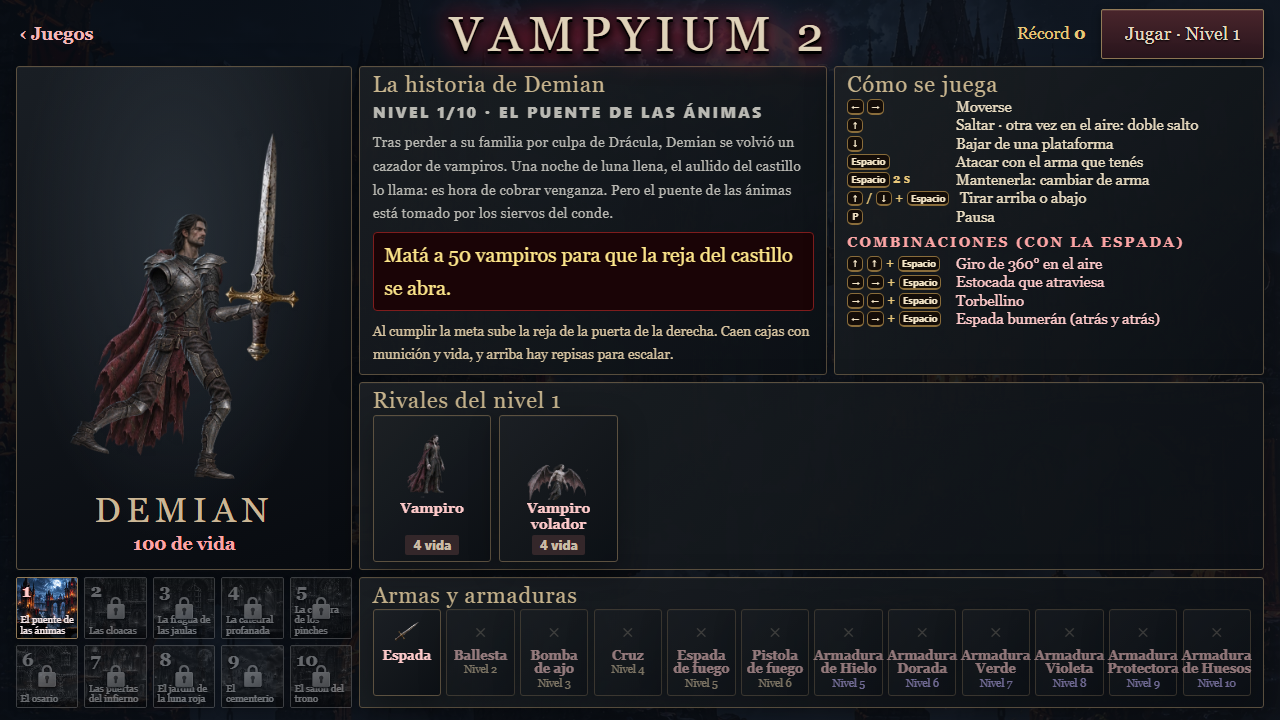
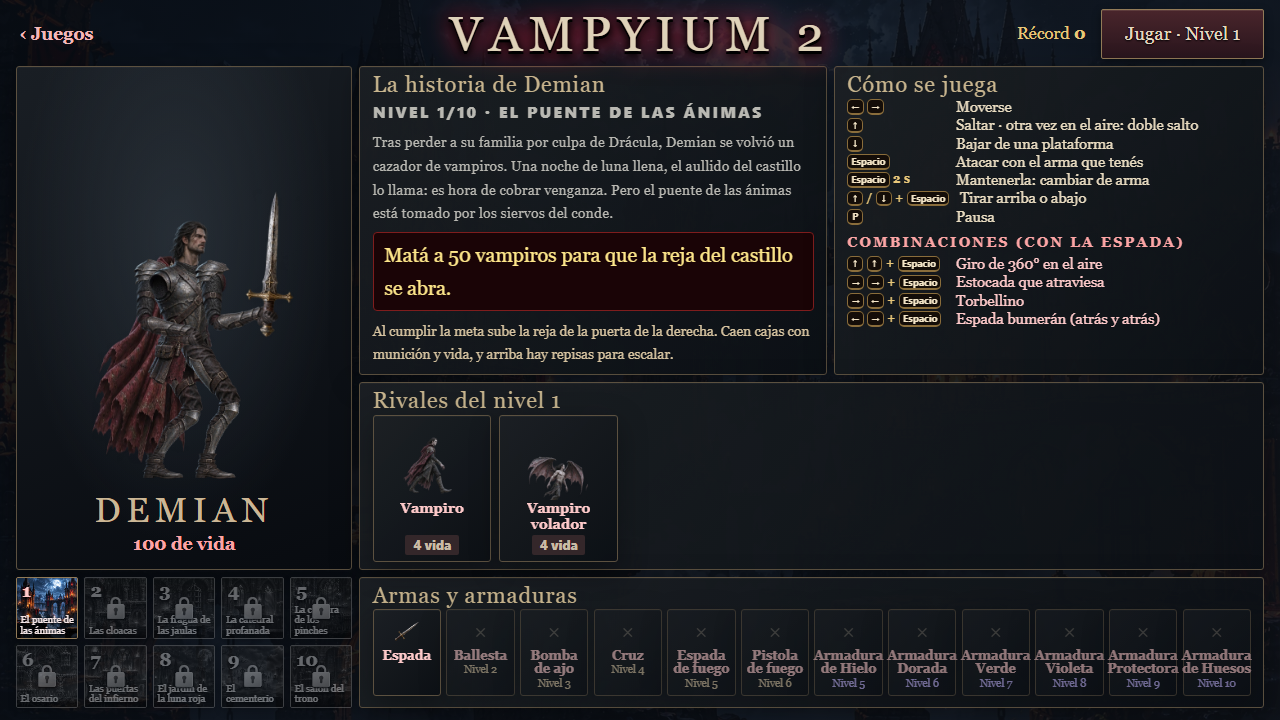
Agrandar personajes y corregir brazos y agarre de espada

Changed region(s): [[0.0625, 0.1833, 0.25, 0.6722], [0.4062, 0.6417, 0.4688, 0.7028], [0.3125, 0.6111, 0.3438, 0.7028]]

diff --git a/src/features/games/vampyium2Art.ts b/src/features/games/vampyium2Art.ts
@@ -70,7 +70,7 @@ function pelvis(ctx: CanvasRenderingContext2D) { blob(ctx, '#f1ead8', 2.2, () =>
 function spine(ctx: CanvasRenderingContext2D) { for (let i = 0; i < 5; i++) blob(ctx, '#f1ead8', 1.6, () => ctx.roundRect(-3.5, -12 + i * 5, 7, 4, 1.5)); }
 function jaw(ctx: CanvasRenderingContext2D) { blob(ctx, '#ece3cf', 2, () => { ctx.moveTo(-9, -2); ctx.lineTo(9, -2); ctx.lineTo(6, 5); ctx.lineTo(-6, 5); ctx.closePath(); }); ctx.fillStyle = '#fff'; for (let i = -2; i <= 2; i++) ctx.fillRect(i * 3 - 1, -4, 2, 2.5); }
 export function drawBone(ctx: CanvasRenderingContext2D, b: Bone, v: View) {
-  const k = PLAYER_H * 1.3 * v.s / 100 * (b.s ?? 1), fade = Math.min(1, (3.4 - b.t) / 0.6);
+  const k = PLAYER_H * 1.3 * v.s * CHARACTER_SCALE / 100 * (b.s ?? 1), fade = Math.min(1, (3.4 - b.t) / 0.6);
   ctx.save(); ctx.globalAlpha = Math.max(0, fade); ctx.translate(X(v, b.x), Y(v, b.y)); ctx.scale(k, k); ctx.rotate(b.a);
   if (b.kind === 'skull') skull(ctx, b.t < 1.2 ? '#ff3a2a' : '#2a1e1a');
   else if (b.kind === 'jaw') jaw(ctx);
@@ -83,7 +83,8 @@ export function drawBone(ctx: CanvasRenderingContext2D, b: Bone, v: View) {
 }
 // El vampiro se vuelve esqueleto: la carne se desvanece, el esqueleto brilla y arde entero como una antorcha
 // (como la gente que se prende fuego en "El piso es de lava"), grita y al segundo revienta.
-export const CHAR_K = 0.88; // metros del personaje → unidades del mundo
+export const CHARACTER_SCALE = 3;
+export const CHAR_K = 0.88 * CHARACTER_SCALE; // escala visual de los personajes durante la partida
 export function drawCorpse(ctx: CanvasRenderingContext2D, c: Corpse, v: View, t: number, g?: Game) {
   const B = BODY[c.kind], k = CHAR_K * v.s * B.k, f = Math.min(1, c.t / BURN_AT), burn = Math.max(0, Math.min(1, (c.t - BURN_AT) / (BLOW_AT - BURN_AT)));
   const fly = c.kind === 'flyer', dragon = c.kind === 'dragon';
@@ -121,7 +122,7 @@ export function drawCorpse(ctx: CanvasRenderingContext2D, c: Corpse, v: View, t:
 // Los que mató una armadura: congelado (un instante antes de romperse), derritiéndose en verde, haciéndose luz o
 // a punto de explotar en violeta.
 function armorCorpse(ctx: CanvasRenderingContext2D, c: Corpse, v: View, t: number, k: number, fake: Vamp) {
-  const B = BODY[c.kind], x = X(v, c.x), y = Y(v, c.y) + (c.kind === 'flyer' ? -v.s * 0.6 : 0), w = v.s * (B.w + 1.4), h = v.s * (B.h + 1.4);
+  const B = BODY[c.kind], x = X(v, c.x), y = Y(v, c.y) + (c.kind === 'flyer' ? -v.s * 0.6 : 0), w = v.s * (B.w + 1.4) * CHARACTER_SCALE, h = v.s * (B.h + 1.4) * CHARACTER_SCALE;
   const body = (sy = 1, sx = 1) => (cc: CanvasRenderingContext2D) => { cc.save(); cc.translate(x, y); cc.scale(k * c.face * sx, k * sy); drawVampK(cc, fake, t); cc.restore(); };
   if (c.how === 'ice') { tinted(ctx, x - w / 2, y - h, w, h + v.s * 0.4, 'rgb(170,225,255)', 0.7, body()); return; }
   if (c.how === 'violet') { tinted(ctx, x - w / 2, y - h, w, h + v.s * 0.4, 'rgb(200,110,255)', 0.4 + c.t * 3, body()); ctx.save(); ctx.globalCompositeOperation = 'lighter'; glow(ctx, x, y - v.s * B.h * 0.5, v.s * 1.6, 'rgba(200,100,255,0.7)'); ctx.restore(); return; }
@@ -883,9 +884,9 @@ function tinted(ctx: CanvasRenderingContext2D, bx: number, by: number, bw: numbe
 }
 // El vampiro congelado: azul hielo, con el bloque de hielo alrededor y brillitos.
 function frozenVamp(ctx: CanvasRenderingContext2D, vp: Vamp, v: View, t: number, k: number, left: number) {
-  const B = BODY[vp.kind], x = X(v, vp.x), y = Y(v, vp.y), w = v.s * (B.w + 1.2), h = v.s * (B.h + 1.2);
+  const B = BODY[vp.kind], x = X(v, vp.x), y = Y(v, vp.y), w = v.s * (B.w + 1.2) * CHARACTER_SCALE, h = v.s * (B.h + 1.2) * CHARACTER_SCALE;
   tinted(ctx, x - w / 2, y - h, w, h + v.s * 0.4, 'rgb(150,215,255)', 0.5, c => { c.save(); c.translate(x, y); c.scale(k * vp.face, k); drawVampK(c, vp, t); c.restore(); });
-  const bw = v.s * (B.w + 0.5), bh = v.s * (B.h + 0.35), shake = left < 0.25 ? Math.sin(t * 80) * v.s * 0.04 : 0;
+  const bw = v.s * (B.w + 0.5) * CHARACTER_SCALE, bh = v.s * (B.h + 0.35) * CHARACTER_SCALE, shake = left < 0.25 ? Math.sin(t * 80) * v.s * 0.04 : 0;
   ctx.save(); ctx.translate(shake, 0);
   ctx.fillStyle = 'rgba(170,225,255,0.28)'; ctx.strokeStyle = 'rgba(230,248,255,0.85)'; ctx.lineWidth = Math.max(1.5, v.s * 0.05);
   ctx.beginPath(); ctx.moveTo(x - bw / 2, y); ctx.lineTo(x - bw / 2 - v.s * 0.1, y - bh * 0.6); ctx.lineTo(x - bw * 0.3, y - bh); ctx.lineTo(x + bw * 0.25, y - bh - v.s * 0.1); ctx.lineTo(x + bw / 2 + v.s * 0.08, y - bh * 0.55); ctx.lineTo(x + bw / 2, y); ctx.closePath(); ctx.fill(); ctx.stroke();
@@ -1116,7 +1117,7 @@ export function drawGame(ctx: CanvasRenderingContext2D, g: Game, w: number, h: n
     // la barrita de vida de los fuertes (cuando ya les pegaron)
     const hp = vp.hp ?? 1, max = vp.maxHp ?? 1;
     if (max > 1 && hp < max && !isBoss(vp.kind)) {
-      const bw = v.s * 1.1, bh = Math.max(4, v.s * 0.13), bx = X(v, vp.x) - bw / 2, by = Y(v, vp.y + BODY[vp.kind].h + 0.35);
+      const bw = v.s * 1.1, bh = Math.max(4, v.s * 0.13), bx = X(v, vp.x) - bw / 2, by = Y(v, vp.y + BODY[vp.kind].h * CHARACTER_SCALE + 0.35);
       ctx.fillStyle = 'rgba(0,0,0,0.75)'; ctx.fillRect(bx - 2, by - 2, bw + 4, bh + 4);
       ctx.fillStyle = '#3a0408'; ctx.fillRect(bx, by, bw, bh);
       ctx.fillStyle = lin(ctx, 0, by, 0, by + bh, [[0, '#ff6070'], [1, '#b0101c']]); ctx.fillRect(bx, by, bw * hp / max, bh);
@@ -1147,7 +1148,7 @@ export function drawGame(ctx: CanvasRenderingContext2D, g: Game, w: number, h: n
       if (g.phase !== 'won') {   // (más chico, un poco más arriba y cada vez más oscuro)
         const x1 = X(v, DOOR.x1), x2 = X(v, DOOR.x2), y0 = Y(v, DOOR.y), top = Y(v, DOOR.y + DOOR.h), mid = (x1 + x2) / 2, r = (x2 - x1) / 2;
         ctx.save(); ctx.beginPath(); ctx.moveTo(x1, y0); ctx.lineTo(x1, top + r); ctx.quadraticCurveTo(x1, top - r * 0.4, mid, top - r); ctx.quadraticCurveTo(x2, top - r * 0.4, x2, top + r); ctx.lineTo(x2, y0); ctx.closePath(); ctx.clip();
-        const sc = 1 - 0.45 * enter, px = X(v, p.x), py = Y(v, p.y) - v.s * 0.35 * enter, bw = v.s * 2.4, bh = v.s * 2.8;
+        const sc = 1 - (1 - .55 / CHARACTER_SCALE) * enter, px = X(v, p.x), py = Y(v, p.y) - v.s * 0.35 * enter, bw = v.s * 2.4 * CHARACTER_SCALE, bh = v.s * 2.8 * CHARACTER_SCALE;
         tinted(ctx, px - bw / 2, py - bh, bw, bh + v.s * 0.2, '#000', Math.min(0.85, enter * 0.8), c => { c.save(); c.translate(px, py); c.scale(k * p.face * sc, k * sc); drawHunterK(c, p, g, t); c.restore(); });
         ctx.restore();
       }

diff --git a/src/features/games/vampyium2Sprites.ts b/src/features/games/vampyium2Sprites.ts
@@ -71,7 +71,7 @@ export function drawRealisticHunter(ctx: CanvasRenderingContext2D, p: Player, g:
   if (p.special?.kind === 'dash') { ctx.translate(.12, -.06); ctx.rotate(.2); }
   const hip: Pt = [pose.lean * .08, -.92 + pose.bob * .45 + pose.crouch * .3 + (p.landT > 0 ? p.landT * .32 : 0)];
   const neck: Pt = [hip[0] + Math.sin(pose.lean) * .61, hip[1] - Math.cos(pose.lean) * .61];
-  const shoulders: Pt[] = [[neck[0] - .18, neck[1] + .085], [neck[0] + .17, neck[1] + .09]];
+  const shoulders: Pt[] = [[neck[0] - .245, neck[1] + .085], [neck[0] + .185, neck[1] + .09]];
   const feet: Pt[] = [], knees: Pt[] = [];
   for (let i = 0; i < 2; i++) {
     const origin: Pt = [hip[0] + (i ? .09 : -.09), hip[1] + .03];
@@ -99,16 +99,26 @@ export function drawRealisticHunter(ctx: CanvasRenderingContext2D, p: Player, g:
     const bootAngle = p.onGround && Math.abs(p.vx) < .15 && p.attackT < 0 ? 0 : -(pose.legs[i][0] - pose.legs[i][1]) * .3;
     part(ctx, 8, [feet[i][0] + .045, feet[i][1] + .015], .29, .18, bootAngle); ctx.restore();
   };
-  const arm = (i: number, weapon: boolean) => {
+  const arm = (i: number, layer: 'upper' | 'forearm' | 'all') => {
     const [a, b] = pose.arms[i], elbow = add(shoulders[i], a, .34), hand = add(elbow, a + b, .32);
-    ctx.save(); if (!i) ctx.globalAlpha *= .84;
-    limb(ctx, 3, shoulders[i], elbow, .17); limb(ctx, 4, elbow, hand, .15);
-    part(ctx, 9, shoulders[i], .25, .18, -a * .15);
-    if (weapon) paintWeapon(hand, a + b + pose.blade);
-    else if (g.guardHp > 0) drawAsset(ctx, 'weapons', 10, hand[0] - .2, hand[1] - .23, .4, .58);
-    part(ctx, 5, hand, .13, .14, -(a + b)); ctx.restore();
+    const grip = add(hand, a + b, .035);
+    ctx.save(); if (!i) ctx.globalAlpha *= .94;
+    if (layer !== 'forearm') {
+      limb(ctx, 3, shoulders[i], elbow, .185);
+      part(ctx, 9, shoulders[i], .25, .18, -a * .15);
+    }
+    if (layer !== 'upper') {
+      limb(ctx, 4, elbow, hand, .16);
+      // Wrist/cuff overlaps the vambrace. The fingers cover the handle, not the guard.
+      part(ctx, 5, grip, .125, .15, -(a + b));
+      if (i === 1) paintWeapon(grip, a + b + pose.blade);
+      else if (g.guardHp > 0) drawAsset(ctx, 'weapons', 10, grip[0] - .2, grip[1] - .23, .4, .58);
+      ctx.save(); ctx.beginPath(); ctx.ellipse(grip[0], grip[1], .047, .052, -(a + b), 0, Math.PI * 2); ctx.clip();
+      part(ctx, 5, grip, .125, .15, -(a + b)); ctx.restore();
+    }
+    ctx.restore();
   };
-  leg(0); arm(0, false);
+  leg(0); arm(0, 'upper');
   let torso = 1;
   if (g.weapon === 'ice') torso = 14;
   if (g.weapon === 'bone') torso = 15;
@@ -119,7 +129,8 @@ export function drawRealisticHunter(ctx: CanvasRenderingContext2D, p: Player, g:
   part(ctx, 0, head, .275, .32, pose.head * .4);
   const helmet = g.guardHp > 0 ? 12 : g.weapon === 'holy' || g.weapon === 'cross' ? 11 : g.weapon === 'bone' ? 13 : -1;
   if (helmet >= 0) part(ctx, helmet, [head[0], head[1] - .008], .30, .34, pose.head * .4);
-  arm(1, true);
+  // The rear upper arm stays behind the chest; its forearm and hand cross in front.
+  arm(0, 'forearm'); arm(1, 'all');
   if (p.attackT > .025 && p.attackT < .18 && ['sword', 'firesword', 'violet', 'bone'].includes(p.attackWeapon)) {
     ctx.save(); ctx.globalCompositeOperation = 'lighter'; ctx.globalAlpha *= Math.sin(p.attackT / .18 * Math.PI) * .32;
     ctx.strokeStyle = p.attackWeapon === 'firesword' ? '#efb778' : p.attackWeapon === 'violet' ? '#c6a2c7' : '#c7d6d9';

diff --git a/src/features/games/vampyium2Environment.ts b/src/features/games/vampyium2Environment.ts
@@ -170,11 +170,12 @@ export function realisticHeldWeapon(ctx: CanvasRenderingContext2D, weapon: Weapo
   if ((weapon === 'garlic' || weapon === 'venom') && attackT > .1 && attackT < .3) return true;
   const index = WEAPON_SPRITE[weapon], aspect = assetAspect('weapons', index);
   const sword = ['sword', 'firesword', 'violet', 'bone'].includes(weapon);
-  const w = sword ? weapon === 'bone' ? 1.55 : 1.65 : weapon === 'crossbow' ? .9 : weapon === 'pistol' ? .6 : .38;
+  const w = sword ? weapon === 'bone' ? 1.55 : weapon === 'violet' ? 1.12 : 1.05 : weapon === 'crossbow' ? .9 : weapon === 'pistol' ? .6 : .38;
   const h = w / aspect;
   ctx.save(); ctx.translate(hand[0], hand[1]);
   if (sword || weapon === 'crossbow' || weapon === 'pistol') ctx.rotate(Math.PI / 2 - angle);
-  drawAsset(ctx, 'weapons', index, -w * (sword ? .22 : .25), -h * .5, w, h);
+  const gripAt = weapon === 'bone' ? .23 : sword ? .135 : .25;
+  drawAsset(ctx, 'weapons', index, -w * gripAt, -h * .5, w, h);
   if (weapon === 'firesword') {
     ctx.save(); ctx.translate(w * .5, 0); ctx.rotate(-Math.PI / 2);
     fireLight(ctx, 0, 0, .16, .66, t, .3); ctx.restore();

diff --git a/docs/vampyium2-realismo.md b/docs/vampyium2-realismo.md
@@ -1,5 +1,7 @@
 # Vampyium 2 — rediseño de arte
 
+Último ajuste: tamaño visual de todos los personajes multiplicado por tres durante la partida. Los retratos mantienen la escala de sus tarjetas. Se separaron las capas de los brazos para que el torso no oculte el antebrazo; la mano rodea la empuñadura y las espadas pasan de 1,65 a 1,05 unidades (1,12 en la variante violeta). Se adaptaron también los recortes de congelación, muerte y entrada por la puerta a la escala nueva.
+
 El rediseño utiliza las referencias aportadas por el usuario y el enfoque de recursos rasterizados de Land of Warriors. Se conservan los diez niveles, la física, los controles, la progresión y las doce armas del juego. Vampyrium permanece independiente.
 
 ## Arte integrado
